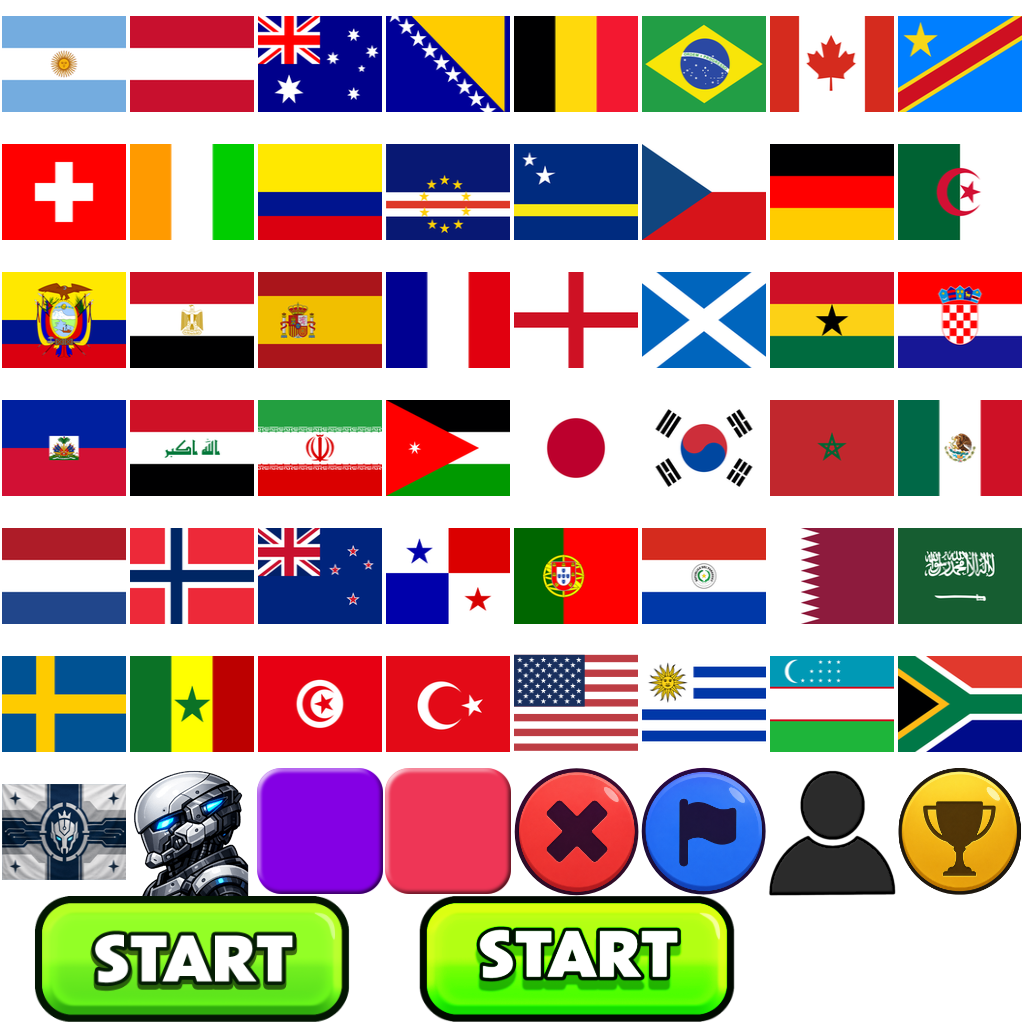
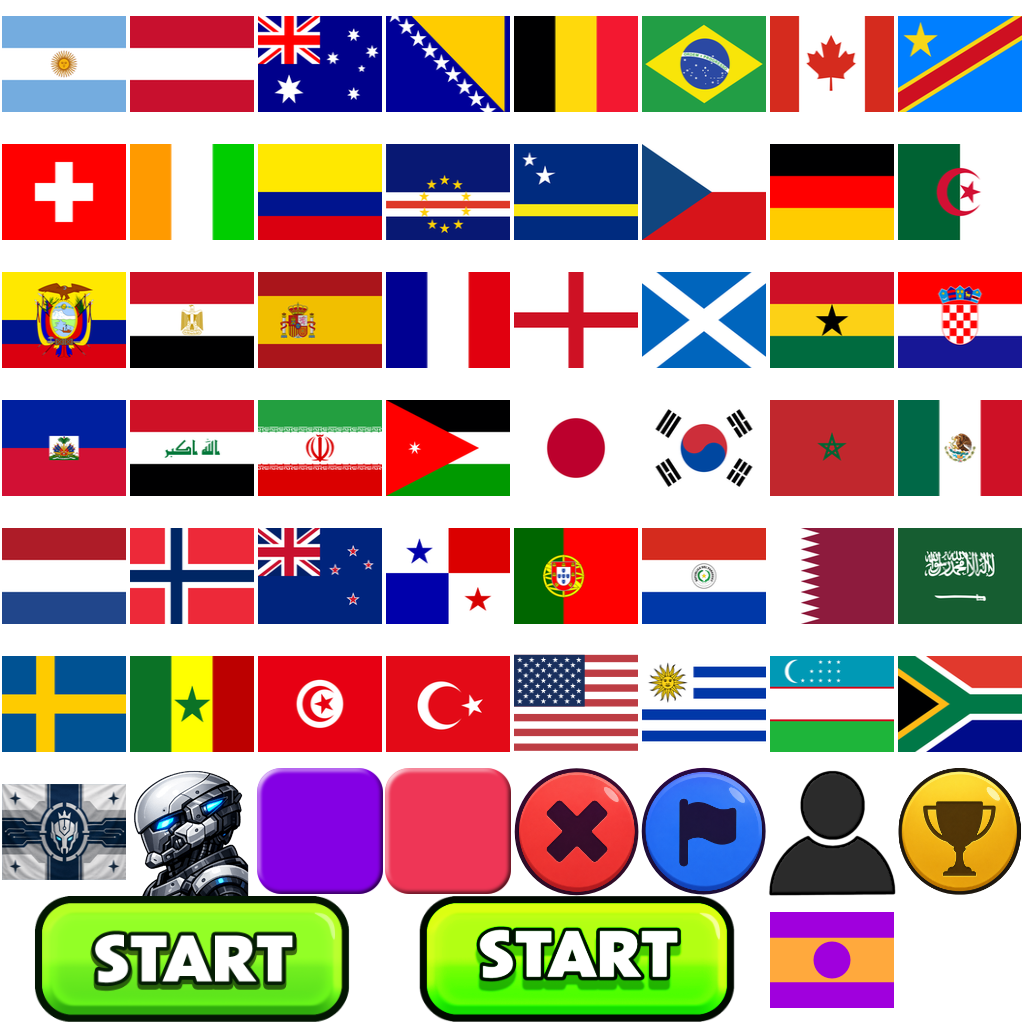
Add fallback flag

Changed region(s): [[0.75, 0.875, 0.875, 1.0]]

diff --git a/src/client/countryStore.ts b/src/client/countryStore.ts
@@ -149,6 +149,8 @@ export const BLUE_PIC_BG_COORD = 'C7'
 export const RED_PIC_BG_COORD = 'D7'
 /** Default avatar when profile face URL is unavailable (mobile, guest, fetch failed). */
 export const DEFAULT_PROFILE_PIC_COORD = 'G7'
+/** Fallback flag when a player's country is unknown/cleared (e.g. after they leave). */
+export const FALLBACK_FLAG_COORD = 'G8'
 /** Extra badges on scoreboard player-B row (flags.png). */
 export const SCOREBOARD_BADGE_F7 = 'F7'
 export const SCOREBOARD_BADGE_H7 = 'H7'
@@ -221,7 +223,7 @@ export function splashStartButtonBackground(hover = false) {
 export function flagBackground(iso: string) {
   const country = getCountryByIso(iso)
   if (!country?.coordinates) {
-    return { color: Color4.create(0, 0, 0, 0) }
+    return atlasCellBackground(FALLBACK_FLAG_COORD)
   }
   return atlasCellBackground(country.coordinates)
 }
